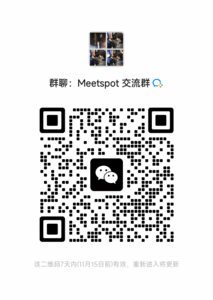
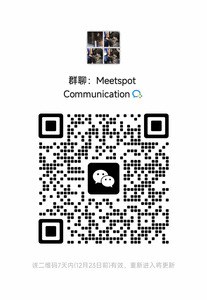
perf(web): optimize page loading performance
Image optimizations:
- Update vx_chat.png with new image (143KB → 11.5KB)

CSS loading optimizations:
- Load Boxicons CSS asynchronously (68KB non-blocking)
- Use preload + onload pattern to prevent render blocking
- Add noscript fallback for accessibility

Font optimizations:
- Reduce Outfit font weights: 4 → 3 (remove 300)
- Reduce DM Sans font weights: 3 → 2 (remove 500)
- Keep Space Mono default weight only

Expected PageSpeed improvements:
- Reduced render-blocking resources
- Smaller initial download size
- Faster First Contentful Paint (FCP)

🤖 Generated with [Claude Code](https://claude.com/claude-code)

diff --git a/public/index.html b/public/index.html
@@ -129,13 +129,14 @@
     <!-- Preload Critical Fonts -->
     <link rel="preconnect" href="https://fonts.googleapis.com">
     <link rel="preconnect" href="https://fonts.gstatic.com" crossorigin>
-    <link rel="preload" as="style" href="https://fonts.googleapis.com/css2?family=Outfit:wght@300;500;700;900&family=DM+Sans:wght@400;500;700&family=Space+Mono:wght@400;700&display=swap">
-    <link href="https://fonts.googleapis.com/css2?family=Outfit:wght@300;500;700;900&family=DM+Sans:wght@400;500;700&family=Space+Mono:wght@400;700&display=swap" rel="stylesheet">
+    <link rel="preload" as="style" href="https://fonts.googleapis.com/css2?family=Outfit:wght@500;700;900&family=DM+Sans:wght@400;700&family=Space+Mono&display=swap">
+    <link href="https://fonts.googleapis.com/css2?family=Outfit:wght@500;700;900&family=DM+Sans:wght@400;700&family=Space+Mono&display=swap" rel="stylesheet">
 
-    <!-- Icons -->
+    <!-- Icons - Async loading to avoid render blocking -->
     <link rel="preconnect" href="https://unpkg.com">
     <link rel="dns-prefetch" href="https://unpkg.com">
-    <link href="https://unpkg.com/boxicons@2.1.4/css/boxicons.min.css" rel="stylesheet">
+    <link rel="preload" href="https://unpkg.com/boxicons@2.1.4/css/boxicons.min.css" as="style" onload="this.onload=null;this.rel='stylesheet'">
+    <noscript><link href="https://unpkg.com/boxicons@2.1.4/css/boxicons.min.css" rel="stylesheet"></noscript>
 
     <style>
         :root {
